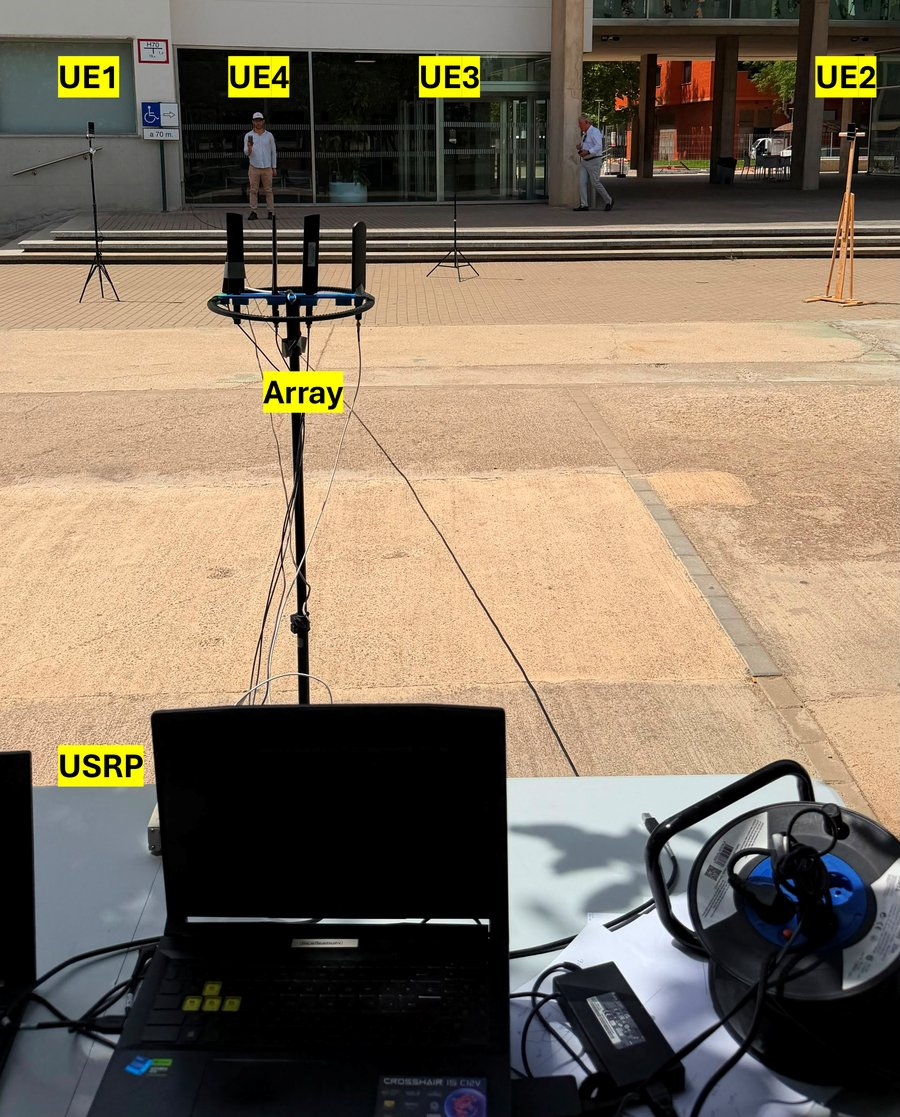
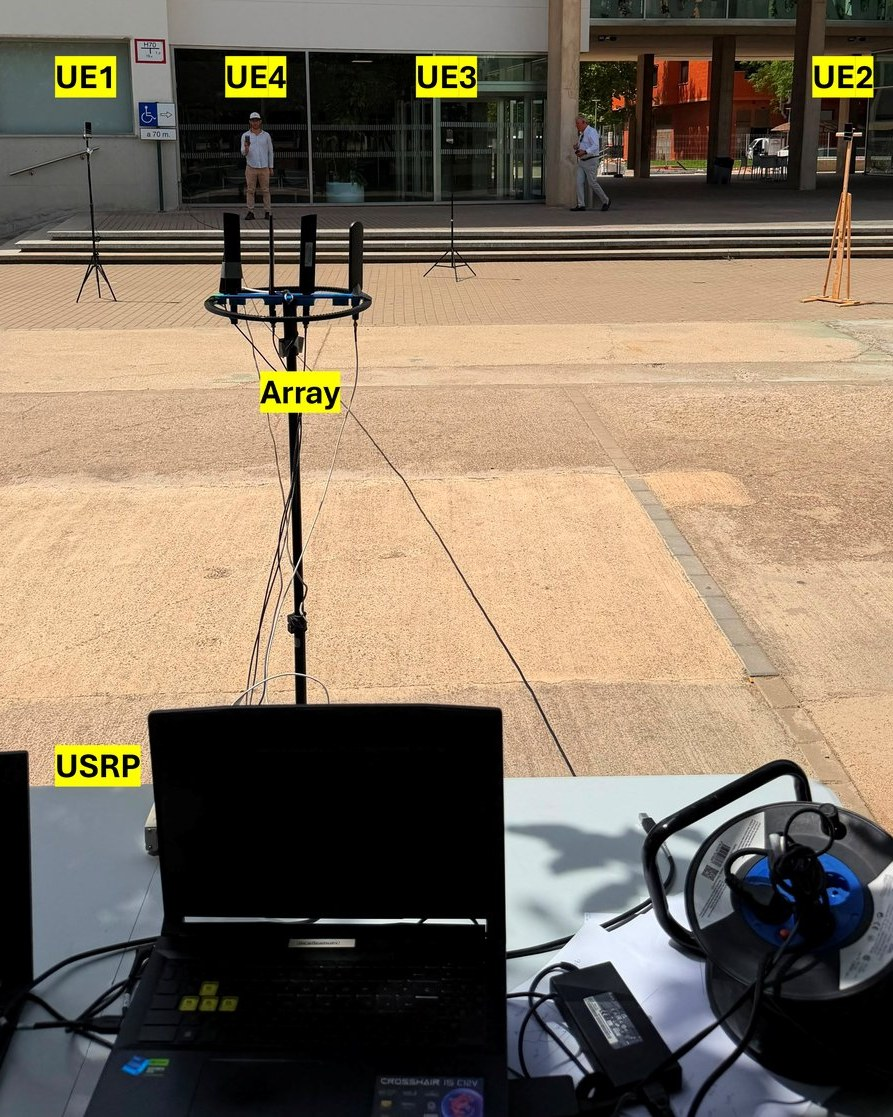
Pre-crop project photos to matching ratio, fill frame completely

diff --git a/assets/css/style.css b/assets/css/style.css
@@ -483,7 +483,7 @@ html[data-theme="dark"] .hero-art { opacity: 0.16; }
   border-bottom: 1px solid var(--hairline);
   overflow: hidden;
 }
-.project-media img { width: 100%; height: 100%; object-fit: contain; }
+.project-media img { width: 100%; height: 100%; object-fit: cover; }
 .project-body { padding: 20px 22px 22px; }
 .project-body h3 { font-size: 1.08rem; margin-bottom: 8px; }
 .project-body p { font-size: 0.92rem; margin-bottom: 12px; }
